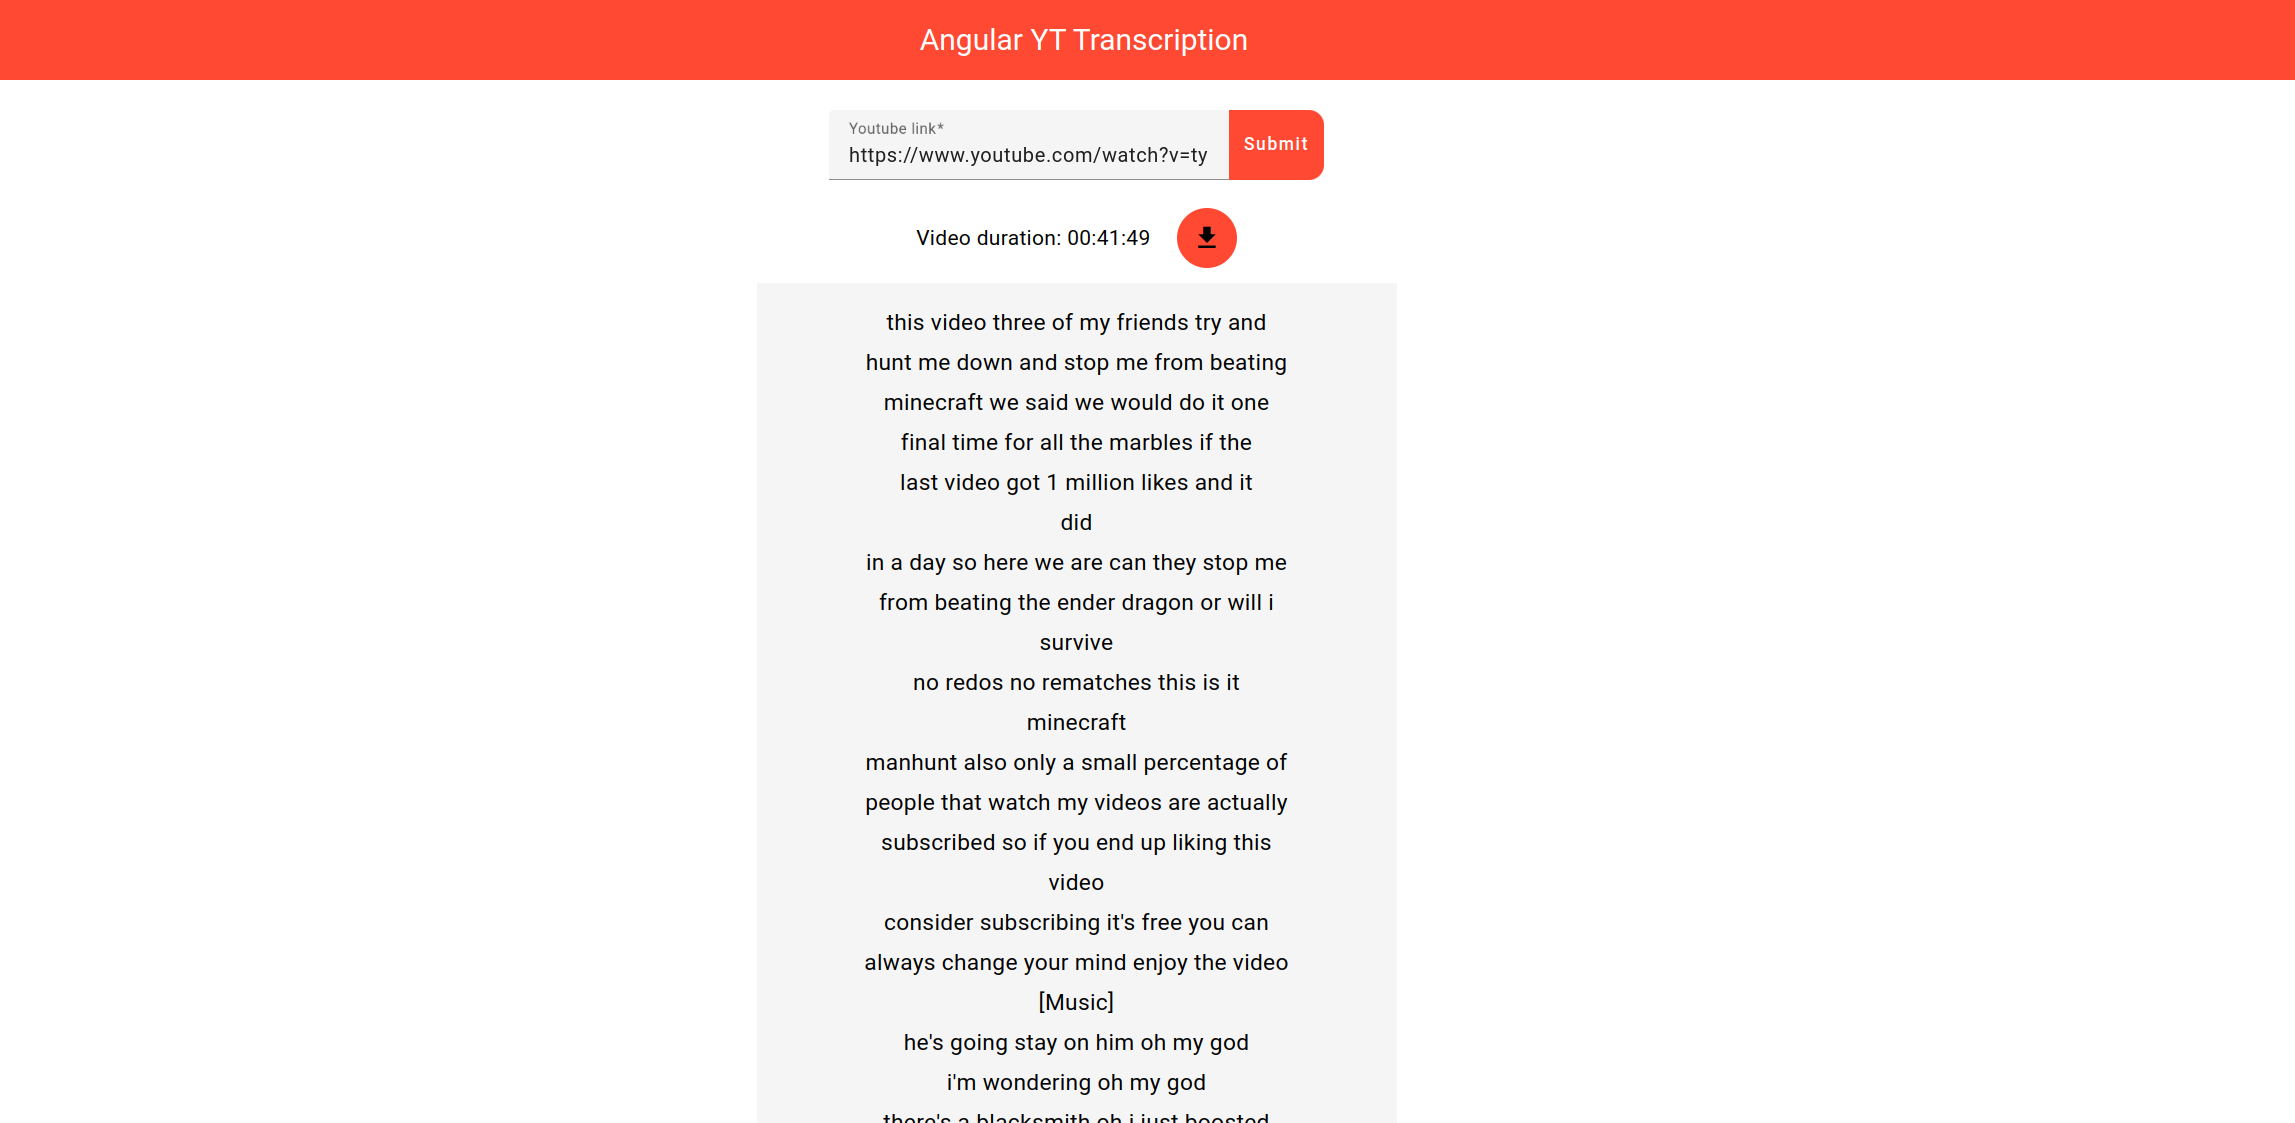
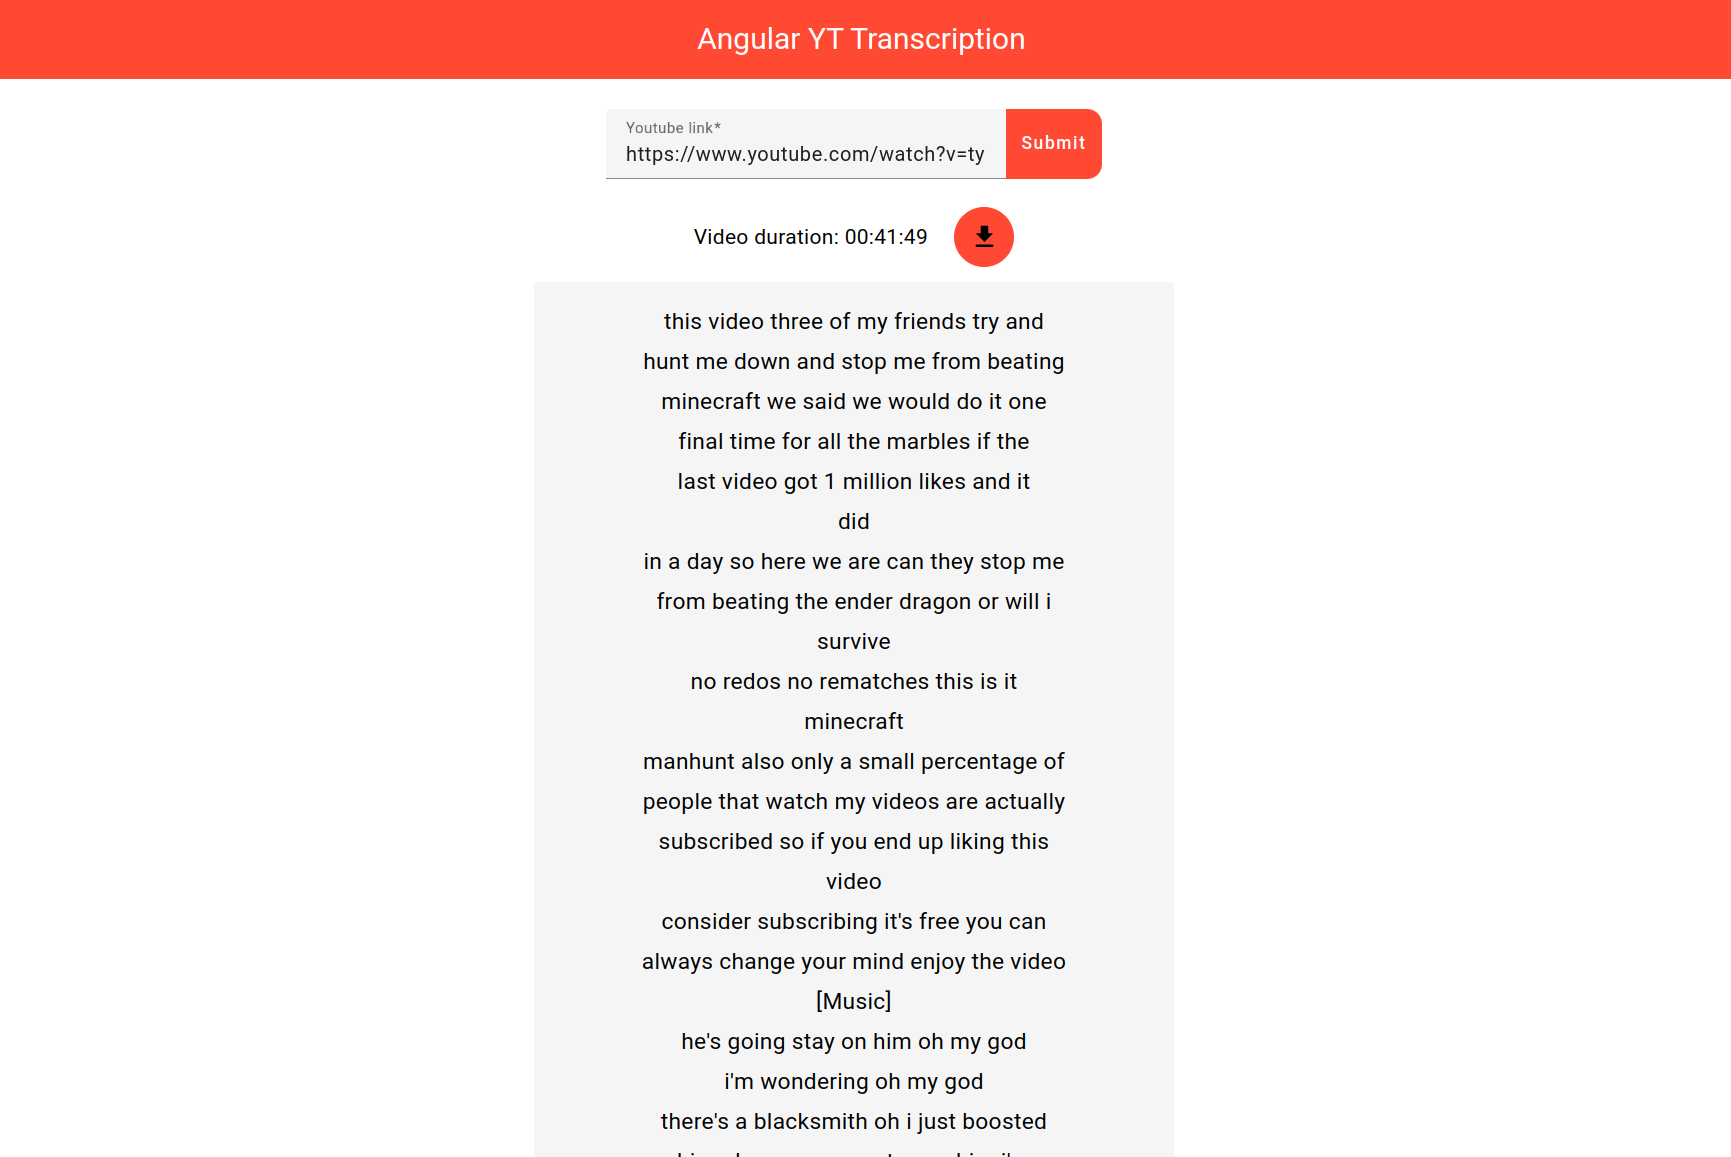
Fix scss and add deploy bash script

Changed region(s): [[0.0, 0.0, 1.0, 1.0]]

diff --git a/src/environments/environment.ts b/src/environments/environment.ts
@@ -6,12 +6,3 @@ export const environment = {
   production: false,
   urlSegment: '/youtube',
 };
-
-/*
- * For easier debugging in development mode, you can import the following file
- * to ignore zone related error stack frames such as `zone.run`, `zoneDelegate.invokeTask`.
- *
- * This import should be commented out in production mode because it will have a negative impact
- * on performance if an error is thrown.
- */
-// import 'zone.js/plugins/zone-error';  // Included with Angular CLI.

diff --git a/src/app/yt-transcription/components/overview/overview.component.scss b/src/app/yt-transcription/components/overview/overview.component.scss
@@ -3,6 +3,9 @@
 form {
   mat-form-field {
     width: 320px;
+    ::ng-deep.mdc-text-field {
+      border-top-right-radius: unset;
+    }
   }
 
   button {

diff --git a/src/app/yt-transcription/types/youtube-event-response.ts b/src/app/yt-transcription/types/youtube-event-response.ts
@@ -1,4 +1,4 @@
-// Repo
+// Self
 import { Event } from './event';
 
 export interface YoutubeEventResponse {

diff --git a/src/app/yt-transcription/types/event.ts b/src/app/yt-transcription/types/event.ts
@@ -1,4 +1,4 @@
-// Repo
+// Self
 import { Seg } from './seg';
 
 export interface Event {

diff --git a/README.md b/README.md
@@ -1,5 +1,7 @@
 # Angular YT Transcription
 
+<img alt="Test CI passing" src="https://github.com/pacna/angular-yt-transcription/workflows/Test%20CI/badge.svg" />
+
 Angular YT Transcription is a web app that displays a visual transcription of a YouTube video.
 
 ![angular-yt-transcription](./docs/angular-yt-transcription.png)
